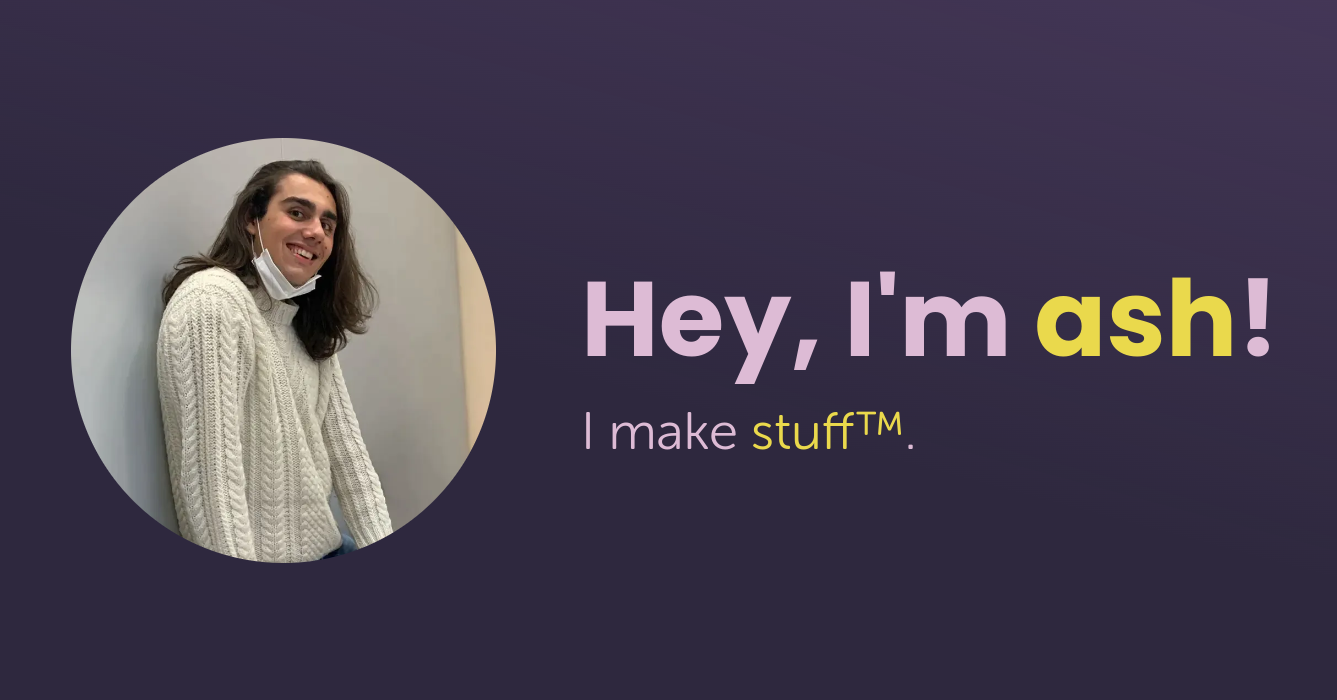
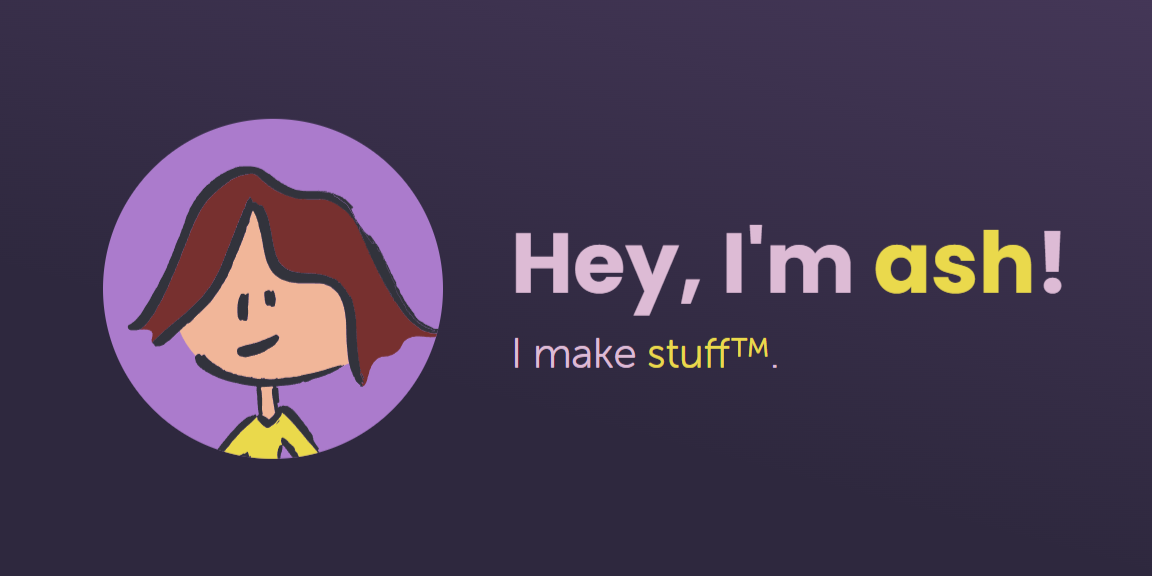
style: use drawing instead of picture, update twimg accordingly

diff --git a/pages/index.js b/pages/index.js
@@ -119,11 +119,12 @@ export default function Home({ cards, darkMode, setDarkMode }) {
         <Navbar home="true" darkMode={darkMode} setDarkMode={setDarkMode} />
         <div className={styles.hero}>
           <div className={styles.imgWrapper}>
-            <Image
+          <img src="/assets/images/medrsvg.svg" alt="A drawing of me" />
+            {/*<Image
               src={mainPic}
               alt="A picture showing me, smiling to the camera in a white jumper"
               layout="responsive"
-            />
+            />*/}
           </div>
           <div className={styles.text} id="hero-text">
             <h1>

diff --git a/styles/Home.module.css b/styles/Home.module.css
@@ -25,6 +25,8 @@
   flex-shrink: 0;
   border-radius: 100%;
   overflow: hidden;
+  background: var(--altaccent, var(--accent));
+  user-select: none;
 }
 .hero .text {
   margin-left: 4rem;
